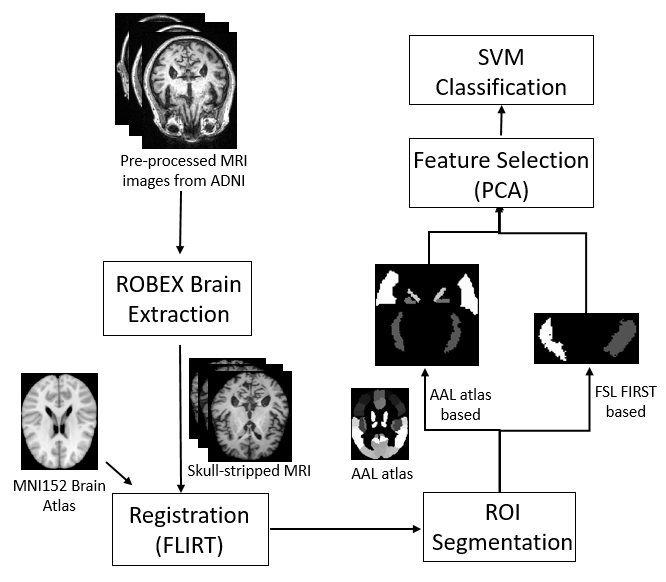
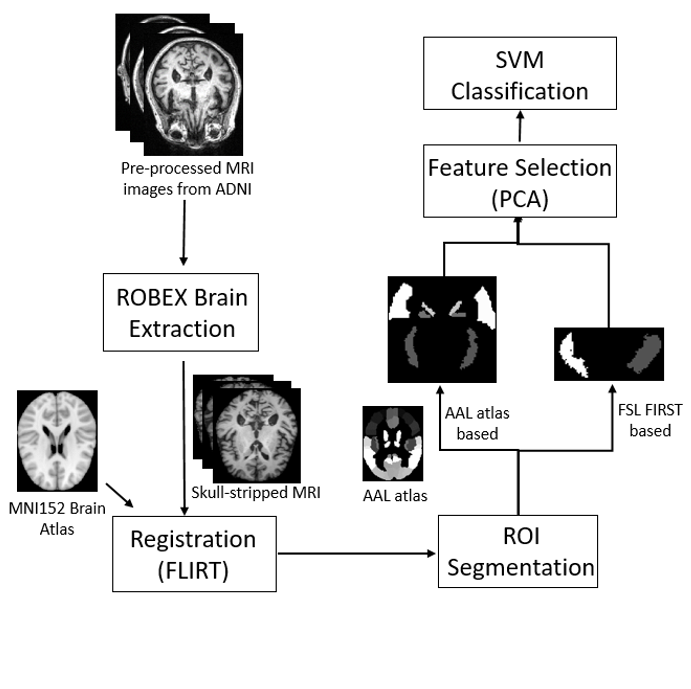
squared up images. added patents

Changed region(s): [[0.0, 0.0, 0.991, 0.9588]]

diff --git a/index.html b/index.html
@@ -84,7 +84,7 @@
                         <p>I am a PhD student (2021-) at the Max Planck Institute for Intelligent Systems where I am
                             advised by MPI Director <a href="https://ps.is.mpg.de/person/black"> Michael Black</a>.
                             Earlier, I worked as an Applied Scientist at Amazon (2019-2021). I earned my Masters
-                            (2017-2019) from the Robotics Institute, Carnegie Mellon University, working with Prof.t <a
+                            (2017-2019) from the Robotics Institute, Carnegie Mellon University, working with Prof. <a
                                     href="http://www.cs.cmu.edu/~kkitani/"> Kris Kitani</a>
                             <br>
                         <p>At Amazon Lab126, I closely collaborated with Prof. <a href="https://rehg.org/"> James
@@ -102,7 +102,13 @@
                             &nbsp/&nbsp
                             <a href="https://github.com/sha2nkt"> GitHub</a>&nbsp;/&nbsp;
                             <a href="https://www.linkedin.com/in/shashanktripathi123/"> LinkedIn </a> /
+                            <a href="https://twitter.com/sha2nk_t"> Twitter </a> /
                             <a href="assets/CV_Shashank_LongPhD_V28.pdf"> CV </a>
+                            <br>
+                            <br>
+                            <a href="#publications"> Publications </a> /
+                            <a href="#patents"> Patents </a> /
+                            <a href="#misc"> Misc </a>
                             <!-- <a href="https://www.twitter.com/debidatta/"> Twitter </a> -->
                         </p>
 
@@ -158,17 +164,64 @@
 
                 <tr>
                     <td style="padding:20px;width:20%;vertical-align:middle">
+                        <a href="assets/agora_teaser.png">
+                            <img src="assets/agora_teaser.png" width="200"></a>
+                    </td>
+                    <td width="58%" valign="top">
+                        <p><a href="https://cvml.page.link/agora" id="AGORA">
+                            <heading>AGORA: Avatars in Geography Optimized for Regression Analysis</heading>
+                        </a><br>
+                            Priyanka Patel, Chun-Hao P. Huang, Joachim Tesch, David T. Hoffman, Shashank Tripathi and Michael J. Black<br>
+                            <em><a href="http://cvpr2020.thecvf.com/">Computer Vision and Pattern Recognition (CVPR)
+                                2021 </a></href> </em>
+                            <!-- <em>(under submission)</a></href> </em> -->
+                            <br>
+                            <br>
+                            A synthetic dataset with high realism and highly accurate ground truth containing 4240 textured scans and SMPLX fits.
+                            <br>
+
+                        </p>
+
+                        <div class="paper" id="agora">
+                            <a href="https://arxiv.org/abs/2104.14643">paper</a> |
+                            <a href="javascript:toggleblock(&#39;agora_abs&#39;)">abstract</a> |
+                            <a href="https://agora.is.tue.mpg.de/">dataset</a> |
+                            <a href="https://www.https://www.youtube.com/watch?v=Q_43QXR1pzY&t=42s">video</a>
+                            <!-- <a shape="rect" href="javascript:togglebib(&#39;terse&#39;)" class="togglebib">bibtex</a> | -->
+                            <!-- <a href="assets/poster_v5_final_print.pdf">poster</a> -->
+
+                            <!-- <a href="https://sites.google.com/corp/view/actionablerepresentations/"> project </a> -->
+
+
+                            <p align="justify"><i id="agora_abs" style="display: none;"> While the accuracy of 3D human pose estimation from images has steadily improved on benchmark datasets, the best methods still fail in many real-world scenarios. This suggests that there is a domain gap between current datasets and common scenes containing people. To obtain ground-truth 3D pose, current datasets limit the complexity of clothing, environmental conditions, number of subjects, and occlusion. Moreover, current datasets evaluate sparse 3D joint locations corresponding to the major joints of the body, ignoring the hand pose and the face shape. To evaluate the current state-of-the-art methods on more challenging images, and to drive the field to address new problems, we introduce AGORA, a synthetic dataset with high realism and highly accurate ground truth. Here we use 4240 commercially-available, high-quality, textured human scans in diverse poses and natural clothing; this includes 257 scans of children. We create reference 3D poses and body shapes by fitting the SMPL-X body model (with face and hands) to the 3D scans, taking into account clothing. We create around 14K training and 3K test images by rendering between 5 and 15 people per image us- ing either image-based lighting or rendered 3D environments, taking care to make the images physically plausible and photoreal. In total, AGORA consists of 173K individual person crops. We evaluate existing state-of-the- art methods for 3D human pose estimation on this dataset. and find that most methods perform poorly on images of children. Hence, we extend the SMPL-X model to better capture the shape of children. Additionally, we fine- tune methods on AGORA and show improved performance on both AGORA and 3DPW, confirming the realism of the dataset. We provide all the registered 3D reference training data, rendered images, and a web-based evaluation site at https://agora.is.tue.mpg.de/. </i></p>
+
+                            <div style="white-space: pre-wrap; display: none;" class="bib">
+                                @inproceedings{tripathi2019learning,
+                                title={Learning to generate synthetic data via compositing},
+                                author={Tripathi, Shashank and Chandra, Siddhartha and Agrawal, Amit and Tyagi, Ambrish
+                                and Rehg, James M and Chari, Visesh},
+                                booktitle={Proceedings of the IEEE Conference on Computer Vision and Pattern
+                                Recognition},
+                                pages={461--470},
+                                year={2019}
+                                }
+                            </div>
+                        </div>
+                    </td>
+                </tr>
+
+                <tr>
+                    <td style="padding:20px;width:20%;vertical-align:middle">
                         <a href="assets/pose_combined.gif">
                             <img src="assets/pose_combined.gif" width="200"></a>
                     </td>
                     <td width="58%" valign="top">
                         <p><a href="https://cvml.page.link/pose" id="PoseNet3D">
-                            <heading>PoseNet3D: Unsupervised 3D Human Shape and Pose Estimation</heading>
+                            <heading>PoseNet3D: Learning Temporally Consistent 3D Human Pose via Knowledge Distillation</heading>
                         </a><br>
                             Shashank Tripathi, <a href="https://www.siddhantranade.com/">Siddhant Ranade</a>, Ambrish
                             Tyagi and Amit Agrawal<br>
-                            <em><a href="http://cvpr2020.thecvf.com/">Computer Vision and Pattern Recognition (CVPR)
-                                2020 (submitted) </a></href> </em>
+                            <em><a href="http://cvpr2020.thecvf.com/">International Conference on 3D Vision (3DV), 2020 <t style="color:red">(oral presentation)</t> </a></href> </em>
                             <!-- <em>(under submission)</a></href> </em> -->
                             <br>
                             <br>
@@ -218,9 +271,7 @@
                 </tr>
 
                 <tr>
-                    <td width="42%" valign="top"><a href="assets/terse_teaser.png"><img src="assets/terse_teaser.png"
-                                                                                        width="100%" height="80%"
-                                                                                        style="border-style: none"></a>
+                    <td style="padding:20px;width:20%;vertical-align:middle"><a href="assets/terse_teaser.png"><img src="assets/terse_teaser.png" width="200"></a>
                     </td>
                     <td width="58%" valign="top">
                         <p><a href="https://arxiv.org/abs/1904.05475" id="TERSE">
@@ -241,7 +292,7 @@
                         <div class="paper" id="terse">
                             <a href="https://arxiv.org/abs/1904.05475">paper</a> |
                             <a href="javascript:toggleblock(&#39;terse_abs&#39;)">abstract</a> |
-                            <a shape="rect" href="javascript:togglebib(&#39;terse&#39;)" class="togglebib">bibtex</a> |
+<!--                            <a shape="rect" href="javascript:togglebib(&#39;terse&#39;)" class="togglebib">bibtex</a> |-->
                             <a href="assets/poster_v5_final_print.pdf">poster</a>
 
                             <!-- <a href="https://sites.google.com/corp/view/actionablerepresentations/"> project </a> -->
@@ -281,9 +332,7 @@
                 </tr>
 
                 <tr>
-                    <td width="42%" valign="top"><a href="assets/c2f_img.PNG"><img src="assets/c2f_img.PNG" width="90%"
-                                                                                   height="30%"
-                                                                                   style="border-style: none"></a>
+                    <td style="padding:20px;width:20%;vertical-align:middle"><a href="assets/c2f_img.PNG"><img src="assets/c2f_img.PNG" width="200"></a>
                     </td>
                     <td width="58%" valign="top">
                         <p>
@@ -325,23 +374,14 @@
                                 three-fold reduction in setup and run time for fundamental micromanipulation tasks, as
                                 compared to manual operation. Accuracy, repeatability and reliability of the programmed
                                 system is analyzed.</i></p>
-
-                            <!-- <div style="white-space: pre-wrap; display: none;" class="bib">
-                              @article{dwibedi2016deep,
-                              title={Deep cuboid detection: Beyond 2d bounding boxes},
-                              author={Dwibedi, Debidatta and Malisiewicz, Tomasz and Badrinarayanan, Vijay and Rabinovich, Andrew},
-                              journal={arXiv preprint arXiv:1611.10010},
-                              year={2016}
-                            } -->
                         </div>
                         </div>
                     </td>
                 </tr>
 
                 <tr>
-                    <td width="42%" valign="top"><a href="assets/isbi_image.png"><img src="assets/isbi_image.PNG"
-                                                                                      width="100%" height="40%"
-                                                                                      style="border-style: none"></a>
+                    <td style="padding:20px;width:20%;vertical-align:middle"><a href="assets/isbi_image.png"><img src="assets/isbi_image.PNG"
+                                                                                      width="200"></a>
                     </td>
                     <td width="58%" valign="top">
                         <p><a href="https://ieeexplore.ieee.org/stamp/stamp.jsp?arnumber=7950682" id="ALZHEIMERS">
@@ -364,8 +404,8 @@
                         <div class="paper" id="sub_cortical">
                             <a href="https://ieeexplore.ieee.org/stamp/stamp.jsp?arnumber=7950682">paper</a> |
                             <a href="javascript:toggleblock(&#39;sub_cortical_abs&#39;)">abstract</a> |
-                            <a shape="rect" href="javascript:togglebib(&#39;sub_cortical&#39;)"
-                               class="togglebib">bibtex</a> |
+<!--                            <a shape="rect" href="javascript:togglebib(&#39;sub_cortical&#39;)"-->
+<!--                               class="togglebib">bibtex</a> |-->
                             <a href="assets/sub_cortical_poster.pdf">poster</a>
 
                             <!-- <a href="https://sites.google.com/corp/view/actionablerepresentations/"> project </a> -->
@@ -407,9 +447,8 @@
                 </tr>
 
                 <tr>
-                    <td width="42%" valign="top"><a href="assets/miccai_img.png"><img src="assets/miccai_img.png"
-                                                                                      width="100%" height="15%"
-                                                                                      style="border-style: none"></a>
+                    <td style="padding:20px;width:20%;vertical-align:middle"><a href="assets/miccai_img.png"><img src="assets/miccai_img.png"
+                                                                                      width="200"></a>
                     </td>
                     <td width="58%" valign="top">
                         <p><a href="https://link.springer.com/chapter/10.1007/978-3-319-51237-2_2" id="DEEP_SPECTRAL">
@@ -429,9 +468,9 @@
 
                         <div class="paper" id="deepspectral">
                             <a href="https://link.springer.com/chapter/10.1007/978-3-319-51237-2_2">paper</a> |
-                            <a href="javascript:toggleblock(&#39;deepspectral_abs&#39;)">abstract</a> |
-                            <a shape="rect" href="javascript:togglebib(&#39;deepspectral&#39;)"
-                               class="togglebib">bibtex</a> |
+                            <a href="javascript:toggleblock(&#39;deepspectral_abs&#39;)">abstract</a>
+<!--                            <a shape="rect" href="javascript:togglebib(&#39;deepspectral&#39;)"-->
+<!--                               class="togglebib">bibtex</a> |-->
                             <!-- <a href="https://github.com/debidatta/syndata-generation">code</a> |
                             <a href="assets/cutpaste_poster.pdf">poster</a> -->
 
@@ -467,6 +506,54 @@
                     </td>
                 </tr>
 
+                <table width="100%" align="center" border="0" cellspacing="0" cellpadding="20">
+                    <tbody>
+                    <tr>
+                        <td>
+                            <h2 id="patents">Patents</h2>
+                        </td>
+                    </tr>
+                    </tbody>
+                </table>
+
+                <table width="100%" align="center" border="0" cellpadding="20">
+                    <tbody>
+                    <tr>
+                        <td style="padding:20px;width:20%;vertical-align:middle"><a
+                                href="https://patents.google.com/patent/US10909349B1"><img src="assets/3d_patent.png"
+                                                                                           width="200"></a>
+                        </td>
+                        <td width="70%" valign="center">
+                            <p>
+                                <a href="https://patents.google.com/patent/US10909349B1">
+                                    <heading>Generation of synthetic image data using three-dimensional models
+                                    </heading>
+                                </a><br>
+                            </p>
+
+                        </td>
+                    </tr>
+
+
+                    <tr>
+                        <td style="padding:20px;width:20%;vertical-align:middle"><a
+                                href="https://patents.google.com/patent/US10860836B1"><img src="assets/2d_patent.png"
+                                                                                           width="200"></a>
+                        </td>
+                        <td width="70%" valign="center">
+                            <p>
+                                <a href="https://patents.google.com/patent/US10860836B1">
+                                    <heading>Generation of synthetic image data for computer vision models
+                                    </heading>
+                                </a><br>
+                            </p>
+
+                        </td>
+                    </tr>
+
+                    </tbody>
+                </table>
+
 
                 <table width="100%" align="center" border="0" cellspacing="0" cellpadding="20">
                     <tbody>
@@ -482,8 +569,8 @@
                 <table width="100%" align="center" border="0" cellpadding="20">
                     <tbody>
                     <tr>
-                        <td width="42%" valign="top"><a href="assets/supercnn_img.png"><img
-                                src="assets/supercnn_img.png" width="100%" height="30%" style="border-style: none"></a>
+                        <td style="padding:20px;width:20%;vertical-align:middle"><a href="assets/supercnn_img.png"><img
+                                src="assets/supercnn_img.png" width="200"></a>
                         </td>
                         <td width="58%" valign="center">
                             <p>
@@ -504,8 +591,8 @@
                         </td>
                     </tr>
                     <tr>
-                        <td width="42%" valign="top"><a href="assets/tracking_combined.gif"><img
-                                src="assets/tracking_combined.gif" width="100%" style="border-style: none"></a>
+                        <td style="padding:20px;width:20%;vertical-align:middle"><a href="assets/tracking_combined.gif"><img
+                                src="assets/tracking_combined.gif" width="200"></a>
 
                         </td>
                         <td width="58%" valign="center">
@@ -528,9 +615,8 @@
 
 
                     <tr>
-                        <td width="42%" valign="top"><a href="assets/model_combined.gif"><img
-                                src="assets/model_combined.gif" width="100%" height="120%"
-                                style="border-style: none"></a>
+                        <td style="padding:20px;width:20%;vertical-align:middle"><a href="assets/model_combined.gif"><img
+                                src="assets/model_combined.gif" width="200"></a>
                         </td>
                         <td width="58%" valign="center">
                             <p>
@@ -562,7 +648,7 @@
                     <td>
                         <br>
                         <p align="right"><font size="2">
-                            <a href="https://www.cs.berkeley.edu/~barron/">website adapted the awesome Jon Barron</a>
+                            <a href="https://www.cs.berkeley.edu/~barron/">adapted from Jon Barron's awesome webpage</a>
                         </font></p>
 
                     </td>
